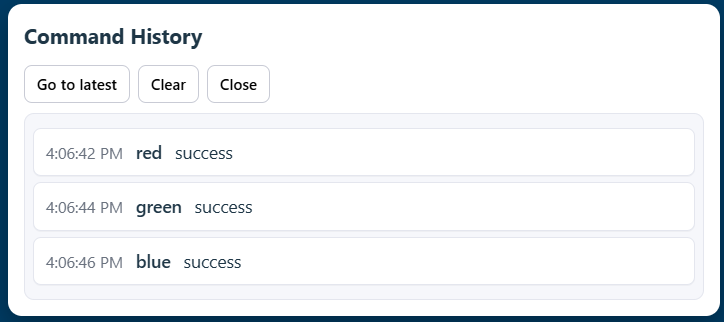
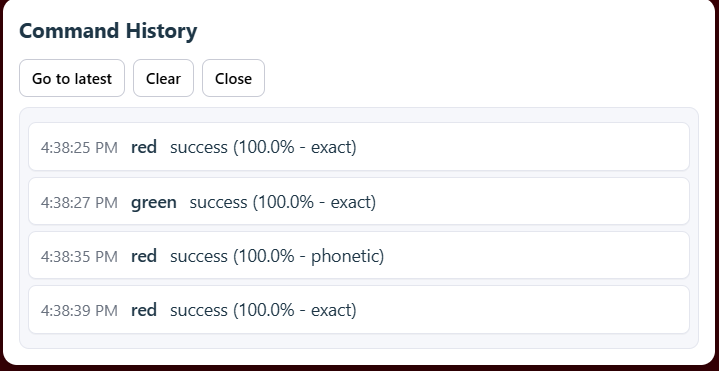
updated how to add commands

diff --git a/documentation/getting-started/commands/commands.md b/documentation/getting-started/commands/commands.md
@@ -3,9 +3,26 @@
 ## Adding Commands
 
 :::note
-Returns true if the command has successfully been added.
+Returns an object with details on whether or not the command was successfully added.
 :::
 
+|Parameters|Type|Description|
+|:----------:|:-----:|:----------|
+|name|string|the voice command that needs to be said for action to occur|
+|action| Function | A function that the developer passes to the library to be executed any time the voice command is recognized|
+|options| Object (optional)| **description** ```Default is ""```<br/> - Value that allows the developer to describe what the command does in more detail<br/>**active** ```Default is true``` <br/> - Turns on or off voice command. Defaults to true if user does not supply a value.<br/>**fetchSynonyms** ```Default is true``` <br/>    - Determines whether to fetch words similar in meaning or sound based on the provided name parameter.<br/>**numberOfSynonyms** ```Default is 3``` <br/>  - The number of synonyms to fetch if fetch synonyms is set to true. |
+
+
+Returns an object in the format:
+```ts
+{
+    success: boolean,
+    commandName: string,
+    synonymsMapped: string[],
+    synonymCount: number,
+}
+```
+### Examples of how to call the method:
 
 ```ts
 const voice = new AACVoiceAPI();
@@ -15,10 +32,13 @@ voice.addVoiceCommand(
     () => console.log('player jumped'),
     {
         description:'displays a message that the player jumped',
-        active: true
+        active: true,
+        fetchSynonyms: true,
+
     }
 )
 ```
+
 or
 ```ts
 const voice = new AACVoiceAPI();
@@ -41,12 +61,47 @@ voice.addVoiceCommand(
 )
 ```
 
+Here is an example of making an array of commands to add to the Command Library:
+```ts
+const voice = new AACVoiceAPI();
 
-|Parameters|Type|Description|
-|:----------:|:-----:|:----------|
-|name|string|the voice command that needs to be said for action to occur|
-|action| Function | A function that the developer passes to the library to be executed any time the voice command is recognized|
-|Option| Object (optional)| **description** (optional) value that allows the developer to describe what the command does in more detail<br/>**active** (optional) - Turns on or off voice command. Defaults to true if user does not supply a value.|
+const setupVoiceCommands = () => {
+
+    const commands = [
+        {
+            name: "blue",
+            action: () => changeColor("dodgerblue", "Blue"),
+            options:{
+                description: "changes color to blue",
+                fetchSynonyms: true,
+            }
+        },
+        {
+            name: "red",
+            action: () => changeColor("darkred", "Red"),
+            options:{
+                description: "changes color to red",
+                fetchSynonyms: true,
+            }
+        },
+        {
+            name: "green",
+            action: () => changeColor("darkseagreen", "Green"),
+            options:{
+                description: "changes color to green",
+                fetchSynonyms: false,
+            }                
+        },
+
+    ];
+
+    commands.forEach(async cmd => {
+        const added =  await voice.addVoiceCommand(cmd.name, cmd.action, cmd.options);//d12e
+        if (added?.success) console.log(`[System] Command added: ${added.commandName} with synonyms ${added.synonymsMapped}`);
+    });
+};
+    ```
+
 
 
 ## Getting Voice Commands

diff --git a/documentation/getting-started/initiate/offline-mode.md b/documentation/getting-started/initiate/offline-mode.md
@@ -24,7 +24,7 @@ await voice.initiate({
 |Parameters|Type|Description|
 |:----------:|:-----:|:----------|
 |mode        |string |Takes in a string of either 'offline' or 'online'|
-|modelUrl    |string | <strong>Two Options</strong><br/><br/>Local Path such as ```'models/whisper-tiny.bin'```<br/>Remote URL such as  ```https://huggingface.co/ggerganov/whisper.cpp/resolve/main/ggml-tiny.bin```|
+|modelUrl    |string | <strong>Two Options</strong><br/><br/>Local Path such as ```models/whisper-tiny.bin```<br/>Remote URL such as  ```https://huggingface.co/ggerganov/whisper.cpp/resolve/main/ggml-tiny.bin```|
 |language    |string | The language that the model was trained in. Uses ISO 639-1 codes|
 
 All available models to use and download can be found [here](https://huggingface.co/ggerganov/whisper.cpp/tree/main)
@@ -39,6 +39,23 @@ const voice = new AACVoiceAPI();
 
 voice.getMode();
 ```
-Returns a string containing the word 'online' or 'offline' depending on which one is currently running
+Returns a string containing the word 'online' or 'offline' depending on which one is currently running.
 
 
+## Server Settings Required
+
+To use offline mode, your site must enable **cross-origin isolation**, which browsers require for features like SharedArrayBuffer. 
+
+For example, if yoiu were to use vite, the following code can be added to your vite.config:
+
+
+```ts
+  server: {
+    headers: {
+      'Cross-Origin-Opener-Policy': 'same-origin',
+      'Cross-Origin-Embedder-Policy': 'require-corp',
+    },
+```
+:::tip
+If you do not have access to the server settings, then ```online``` exists as an alternative.
+:::

diff --git a/documentation/getting-started/initiate/optional-settings.md b/documentation/getting-started/initiate/optional-settings.md
@@ -4,7 +4,7 @@ In combination of the settings required to initiate the library into your desire
 
 |Parameters|Type|Description|
 |:----------:|:-----:|:----------|
-|usePhoneticMatching|boolean| Matches transcribed words and game commands based on how the words sound rather than how they are spelled.<br/><br/>Phonetic Matching will convert each spoken word into a phonetic code using the Double Metaphone algorithm. Depending on how close the two codes are, will determine the confidence level in which they are phonetically the same.|
+|usePhoneticMatching|boolean| Matches transcribed words and game commands based on how the words sound rather than how they are spelled.<br/><br/>Phonetic Matching will convert each spoken word into a phonetic code using the Double Metaphone algorithm. Depending on how close the two codes are, will determine the confidence level in which they are phonetically the same.<br/><br/> Example: The word 'read' as in "I read a book", sounds exactly the same as the word 'red', as in "My favorite color is red." The phonetic matching algorithm will have these two words match at a 100% confidence level.|
 |confidenceThreshold|number| Takes a number between 0-1 inclusive. 1 being an exact match. The confidence level required to trigger a game command if a word is spoken.|
 |logConfidenceScores|boolean|A developer tool that will display confidence levels of words in the console log. Should be turned off in a production environment|
 

diff --git a/documentation/getting-started/commands/command-history.md b/documentation/getting-started/commands/command-history.md
@@ -31,3 +31,10 @@ Here is an example of what the modal looks like with some commands processed:
 
 ![Modal](/img/getting-started/command-history-modal.png)
 
+### What's going on in this picture?
+
+This picture shows the commands that were successfully executed based on the user’s spoken words. Some commands match exactly, while others are triggered through phonetic matching. This helps users understand when a command was recognized by sound similarity rather than an exact word match.
+
+For example, the command the was executed at timestamp 4:38:35 with a phonetic match of 100% had the word 'read' spoken. Since 'read' sounds exactly like 'red' in its past tense form, it has a 100% phonetic match.
+
+
